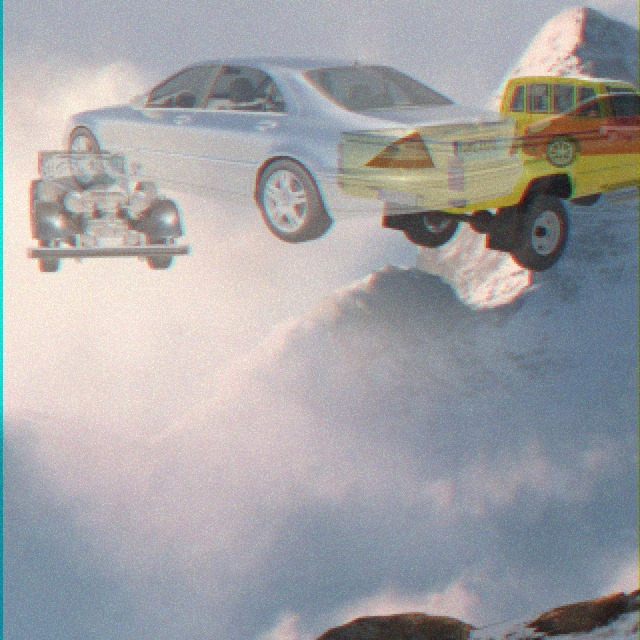
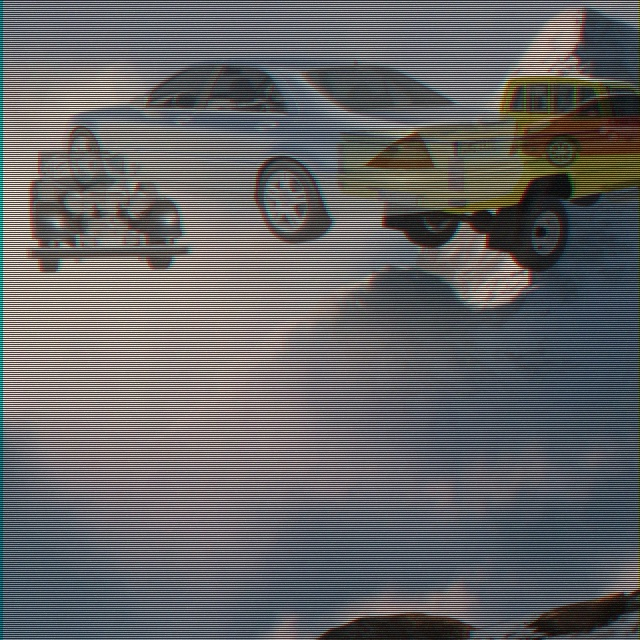
add len scatter effect

diff --git a/src/tools/postprocess/len_scatter.py b/src/tools/postprocess/len_scatter.py
@@ -1,0 +1,53 @@
+import cv2
+import numpy as np
+
+
+P_IMAGE = r'src\reincarnator\outputs\output_2025-02-22-00-04-10\images\1740153851-2452.png'
+
+def chromatic_aberration(img, shift_radius=3):
+    # Split channels
+    b, g, r = cv2.split(img)
+    
+    # Shift channels (adjust directions as needed)
+    b_shifted = np.roll(b, shift_radius, axis=1)
+    r_shifted = np.roll(r, -shift_radius, axis=1)
+    
+    # Merge shifted channels
+    merged = cv2.merge([b_shifted, g, r_shifted])
+    
+    # Crop to remove black borders caused by shifting
+    return merged[:, shift_radius:-shift_radius]
+
+
+def add_lens_flare(img, center, radius=50, num_flares=6):
+    h, w = img.shape[:2]
+    flare = np.zeros((h, w, 3), dtype=np.uint8)
+    
+    # Create random flare positions around the center
+    for _ in range(num_flares):
+        angle = np.random.uniform(0, 2*np.pi)
+        distance = np.random.randint(radius//2, radius*2)
+        x = int(center[0] + distance * np.cos(angle))
+        y = int(center[1] + distance * np.sin(angle))
+        
+        # Draw circles with random size and brightness
+        size = np.random.randint(10, 50)
+        brightness = np.random.randint(200, 255)
+        cv2.circle(flare, (x, y), size, (brightness, brightness, brightness), -1)
+    
+    # Blur the flare for a glow effect
+    flare = cv2.GaussianBlur(flare, (99, 99), 30)
+    
+    # Blend with original image
+    result = cv2.addWeighted(img, 1, flare, 0.5, 0)
+    return result
+
+# Usage
+image = cv2.imread(P_IMAGE)
+effect = chromatic_aberration(image)
+cv2.imshow("Chromatic Aberration", effect)
+cv2.waitKey(0)
+center = (300, 200)  # Adjust based on your image
+result = add_lens_flare(image, center)
+cv2.imshow("Lens Flare", result)
+cv2.waitKey(0)
